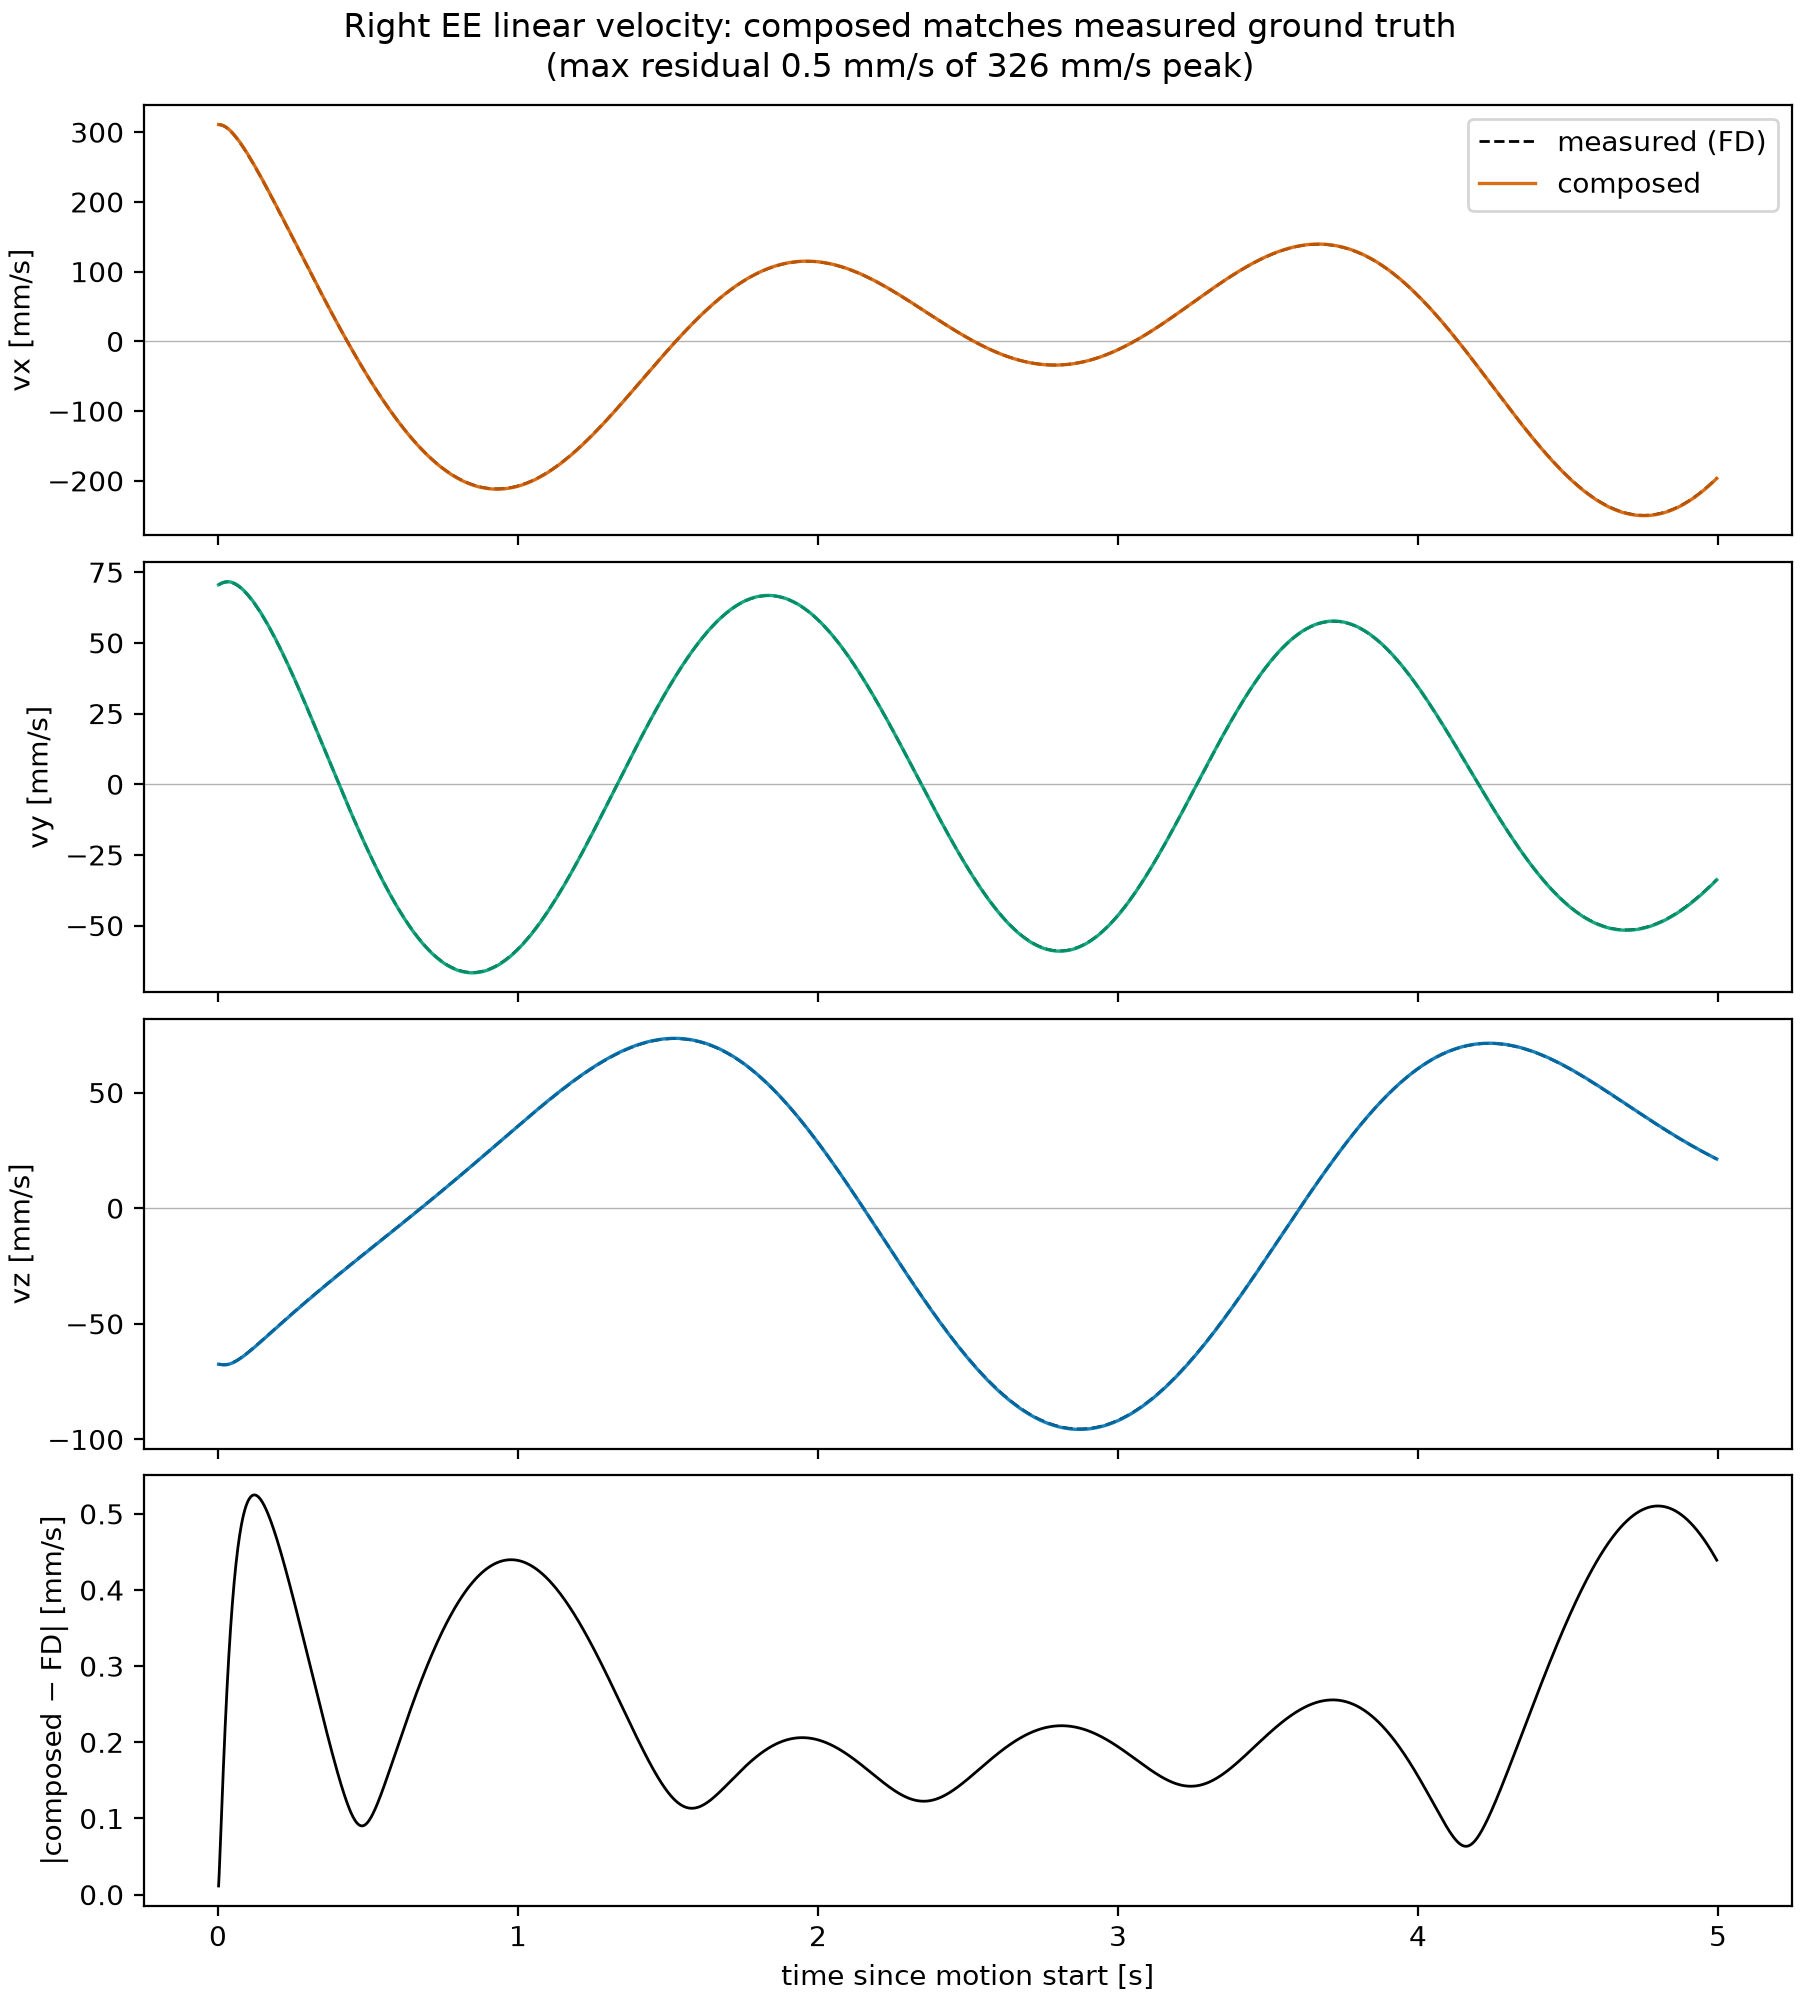
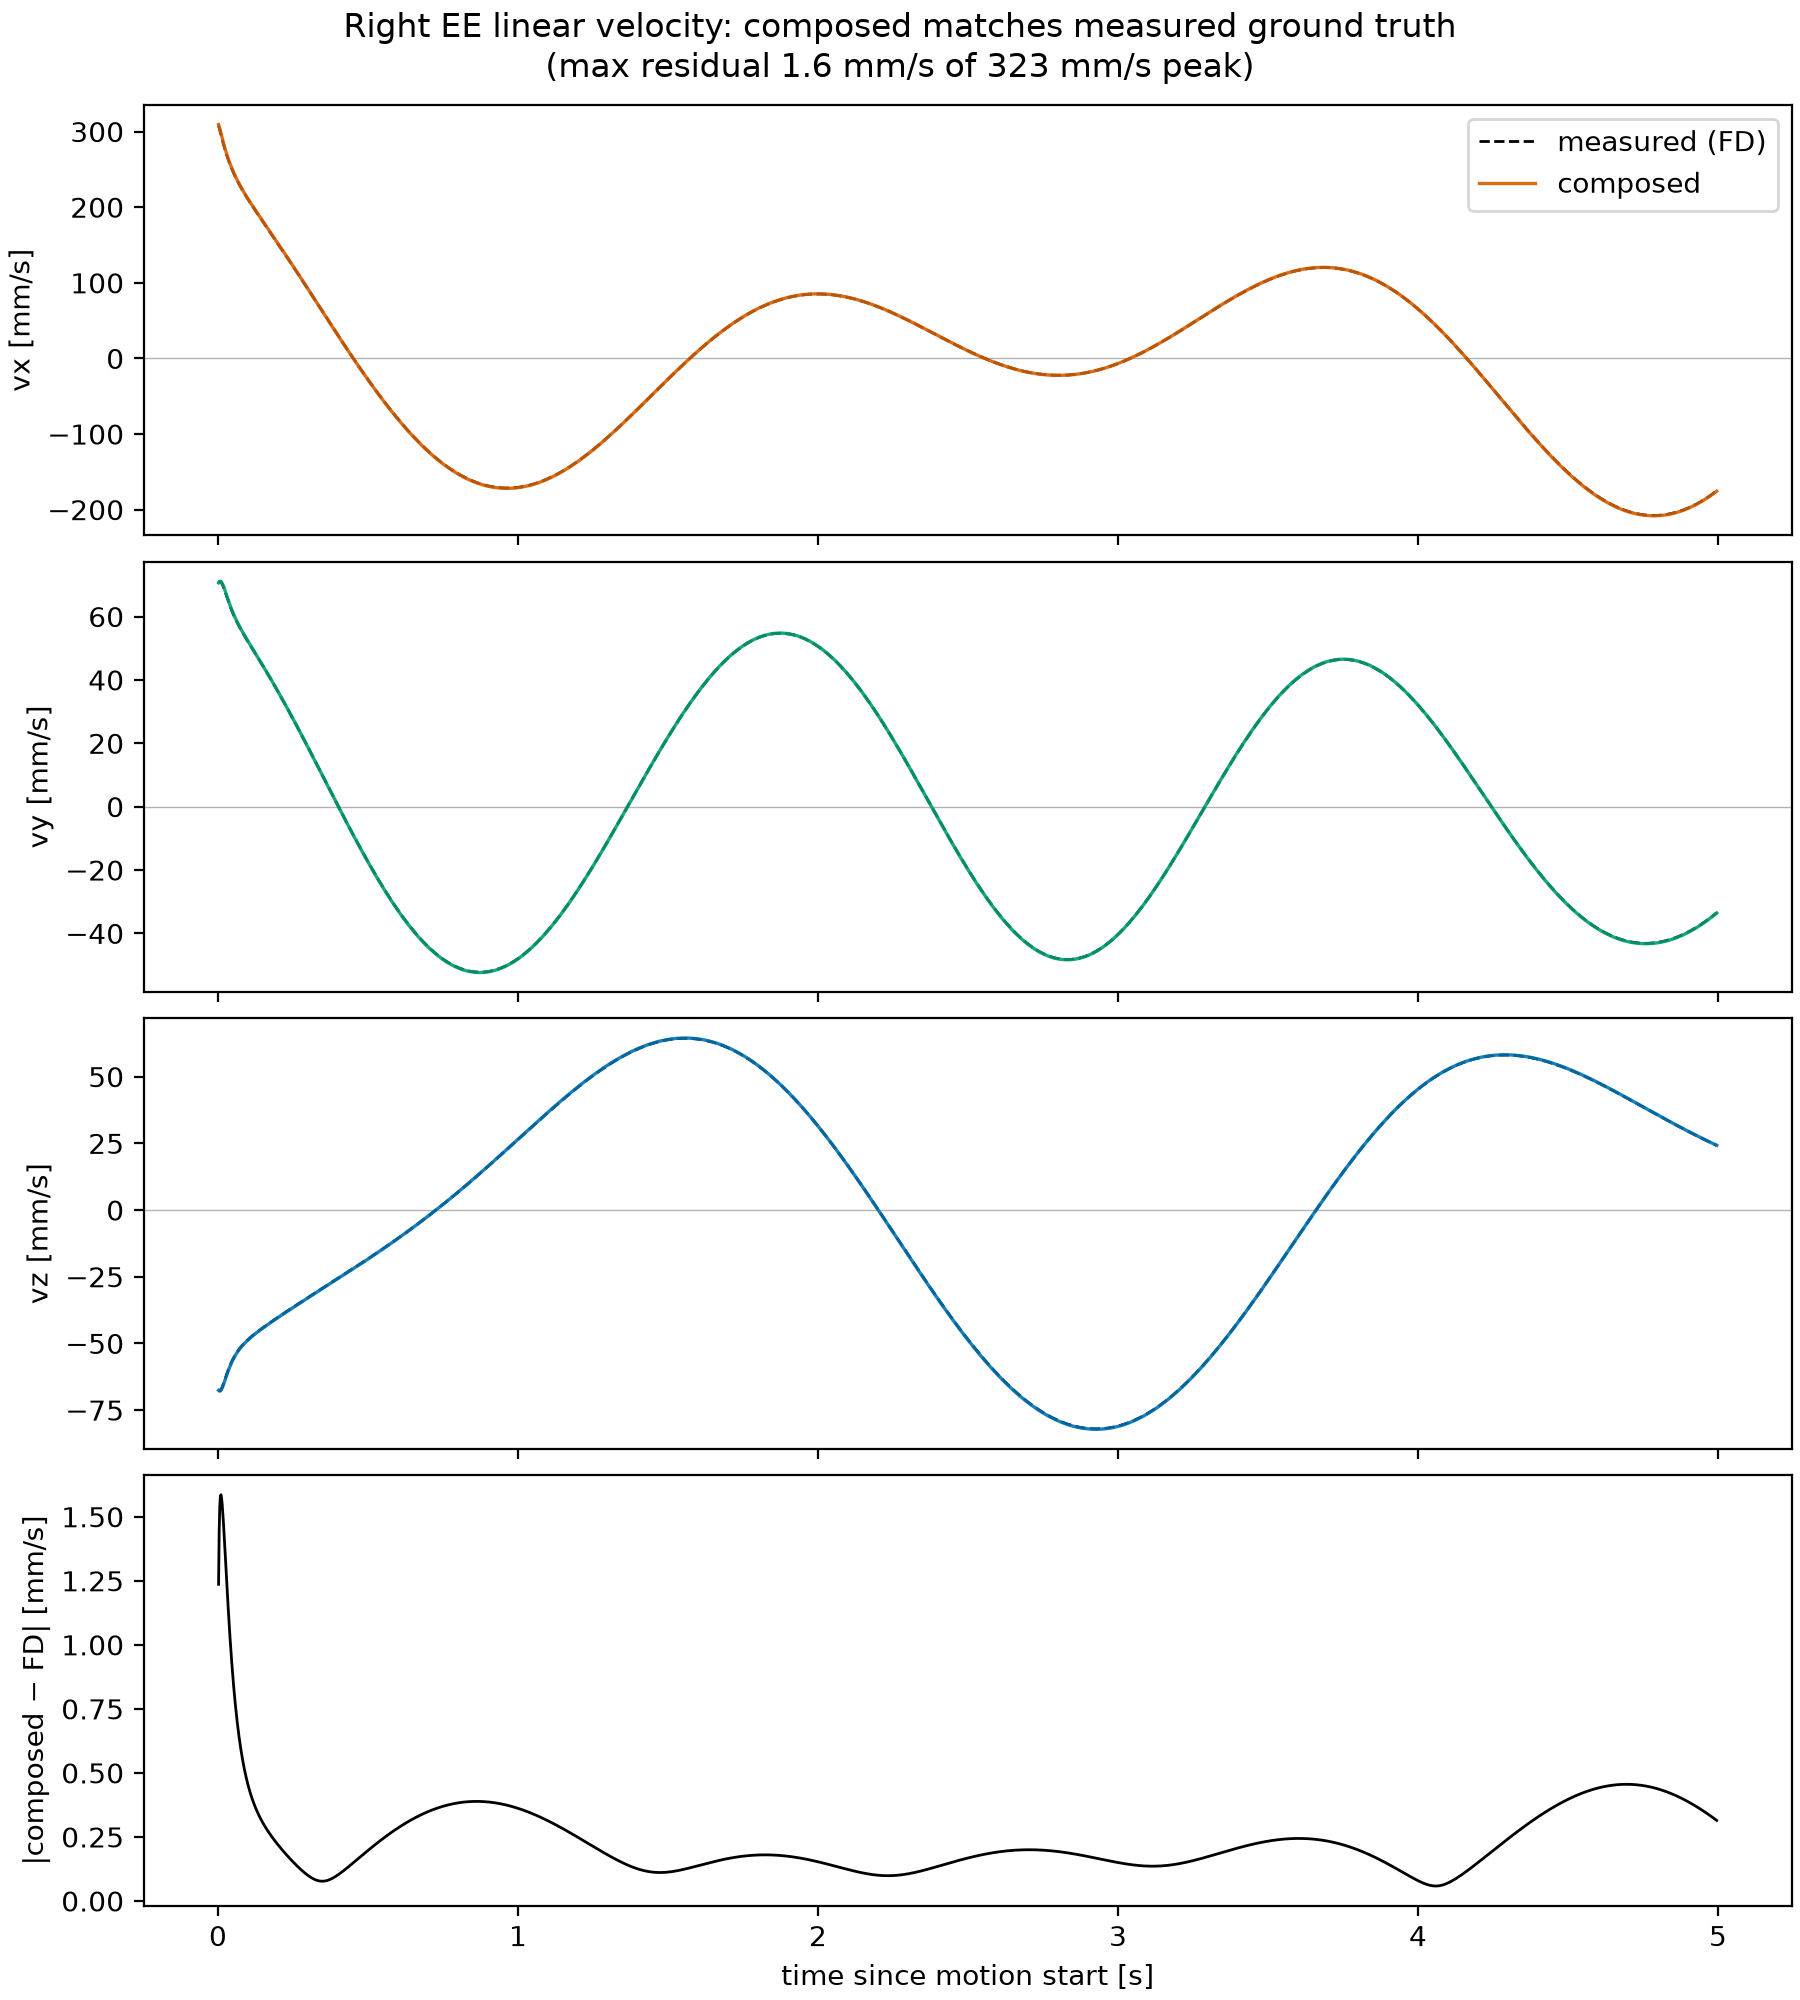
Fix TypeError in validate_velocity.py's apply_ctrl calls
servo.apply_ctrl's signature now requires base_twist (loud-failure
convention from the earlier resolved-rate feedforward change), but
validate_velocity.py:69 and :106 still called apply_ctrl(dt) — a live
TypeError. Settle phase (no base motion) now passes a zero twist,
matching bandwidth_sweep.py's zero_twist pattern; the motion phase
passes motion.torso_twist_at(tau, **SCENARIO), the analytic twist for
the same scenario already driving set_torso_pose at that instant.

Verified: python -m analysis.validate_velocity runs to completion and
regenerates its three figures; full suite 40/40.

diff --git a/analysis/validate_velocity.py b/analysis/validate_velocity.py
@@ -65,8 +65,9 @@ def run():
     servo.init_ctrl()
 
     dt = world.model.opt.timestep
+    zero_twist = (np.zeros(3), np.zeros(3))
     for _ in range(int(SETTLE_SECONDS / dt)):
-        servo.apply_ctrl(dt)
+        servo.apply_ctrl(dt, zero_twist)
         mujoco.mj_step(world.model, world.data)
 
     n = int(MOTION_SECONDS / dt)
@@ -103,7 +104,7 @@ def run():
             L["w_direct"][k] = vel6[:3]
             L["v_direct"][k] = vel6[3:]
 
-        servo.apply_ctrl(dt)
+        servo.apply_ctrl(dt, base_twist)
         mujoco.mj_step(world.model, world.data)
 
     # Ground truth by central differences of the measured pose; trim the
